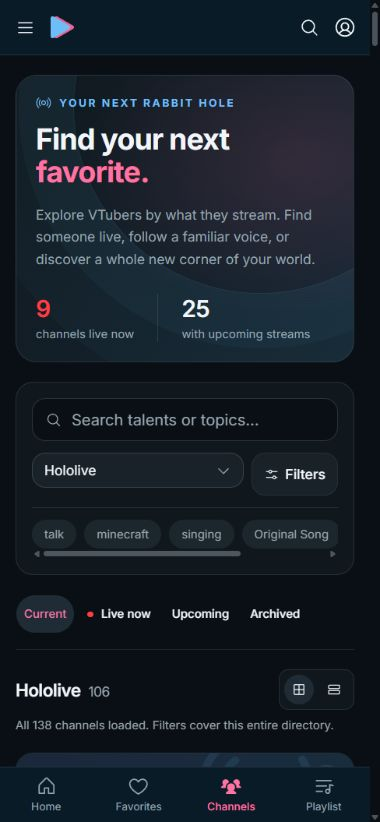
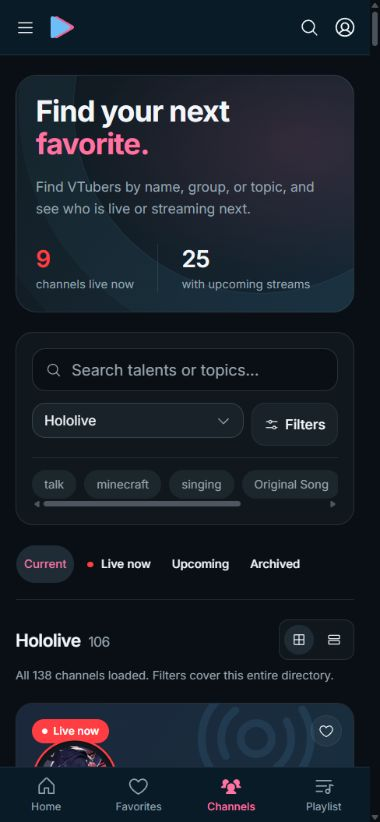
Remove decorative discovery eyebrow and simplify copy

diff --git a/src/pages/channels.tsx b/src/pages/channels.tsx
@@ -460,10 +460,6 @@ export function ChannelsPage() {
       <header className="discovery-hero relative mb-5 overflow-hidden rounded-3xl border p-5 md:p-7">
         <div className="relative z-10 flex flex-col justify-between gap-6 lg:flex-row lg:items-center">
           <div className="max-w-xl">
-            <p className="mb-3 flex items-center gap-2 text-[11px] font-bold tracking-[0.18em] text-complement uppercase">
-              <BroadcastIcon className="size-4" />
-              {t("discovery.eyebrow")}
-            </p>
             <h1 className="max-w-lg text-3xl leading-[1.12] font-bold tracking-tight md:text-[2.65rem]">
               {t("discovery.title")}
               <span className="text-brand">{t("discovery.titleAccent")}</span>

diff --git a/dev-docs-handoff/channel-discovery-experiment.md b/dev-docs-handoff/channel-discovery-experiment.md
@@ -36,6 +36,12 @@ Actual local API data:
 
 Screenshots are in [`../artifacts/channel-discovery/`](../artifacts/channel-discovery/). `desktop-discovery.jpg`, `desktop-cards.jpg`, `phone-discovery.jpg`, and `phone-cards.jpg` show the final main views. Supporting captures cover sparse/list/archived/empty data and global loading/unavailable schedules.
 
+## Copy correction
+
+Copy correction: removed the decorative all-caps eyebrow entirely, shortened the introduction to describe the available controls, and changed decorative result labels to “Matching channels” / “VTuber channels.” Meaningful headings and factual schedule/status labels remain. No replacement tagline.
+
+Focused desktop and 390×844 phone screenshots confirmed the corrected header; `desktop-discovery.jpg` and `phone-discovery.jpg` were refreshed. No tests were run for this copy/removal update.
+
 ## Limits
 
 The local global schedule request failed during visual review and remained unavailable after a manual retry; Hololive's organization schedule succeeded. The global directory still completed and remained searchable, but honestly showed unknown live/upcoming status, an unavailable message, and Retry. Live/upcoming filter counts also remain unknown until a schedule is confirmed. No streams or statuses were fabricated to fill that gap.

diff --git a/artifacts/channel-discovery/README.md b/artifacts/channel-discovery/README.md
@@ -2,6 +2,8 @@
 
 Captured against real local API data using the isolated preview on port 8091. Desktop: 1440×1000. Phone: 390×844. Screenshots show transient actual schedule counts and are visual review artifacts, not fixture data.
 
+The desktop and phone discovery screenshots were refreshed after removing the decorative eyebrow and shortening the introduction. The refreshed desktop capture uses the browser's default size. Supporting captures retain the earlier copy as historical validation artifacts.
+
 - [Desktop discovery](desktop-discovery.jpg)
 - [Desktop live cards](desktop-cards.jpg)
 - [Phone discovery](phone-discovery.jpg)
